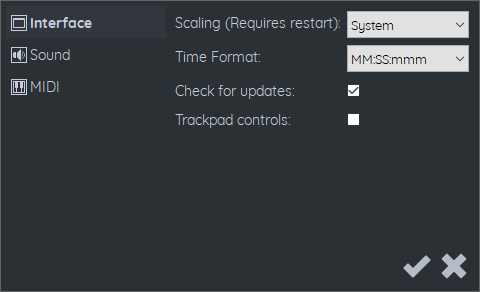
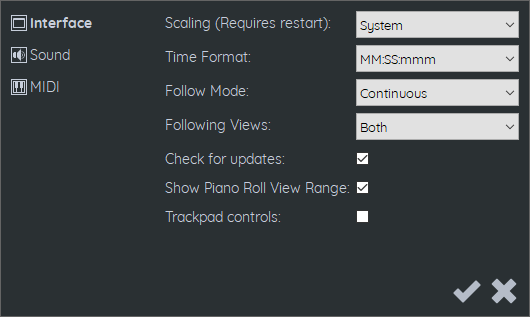
Documentation update.

diff --git a/Docs/docs/config.md b/Docs/docs/config.md
@@ -14,7 +14,20 @@ The configuration dialog dialog is accessed from the toolbar.
 
 * **Time Format**: Allow changing the format of the timer in the main toolbar of the application. 
 
+* **Follow Mode**: Select which type of follow mode to use:
+
+    * **Jump**: Once the play position reaches the right edge of the screen, advances by a full screen.
+    * **Continuous**: Once the play position is at least 75% of the way to the right, starts scrolling smoothly.<br><br>
+
+* **Follow Views**: Select which type of follow mode to use:
+
+    * **Sequencer**: Only enables follow mode in the sequencer.
+    * **Piano Roll**: Only enables follow mode in the piano roll.
+    * **Both**: Enables follow mode on both controls.<br><br>
+
 * **Check for updates**: At startup FamiStudio checks for new version online. This can be disabled.
+
+* **Show Piano Roll View Range**: Displays a yellow rectangle in the sequencer representing the view range of the piano roll.
 
 * **Trackpad controls**: Enabling trackpad controls will switch to a control scheme that is better suited for trackpad users:
 
